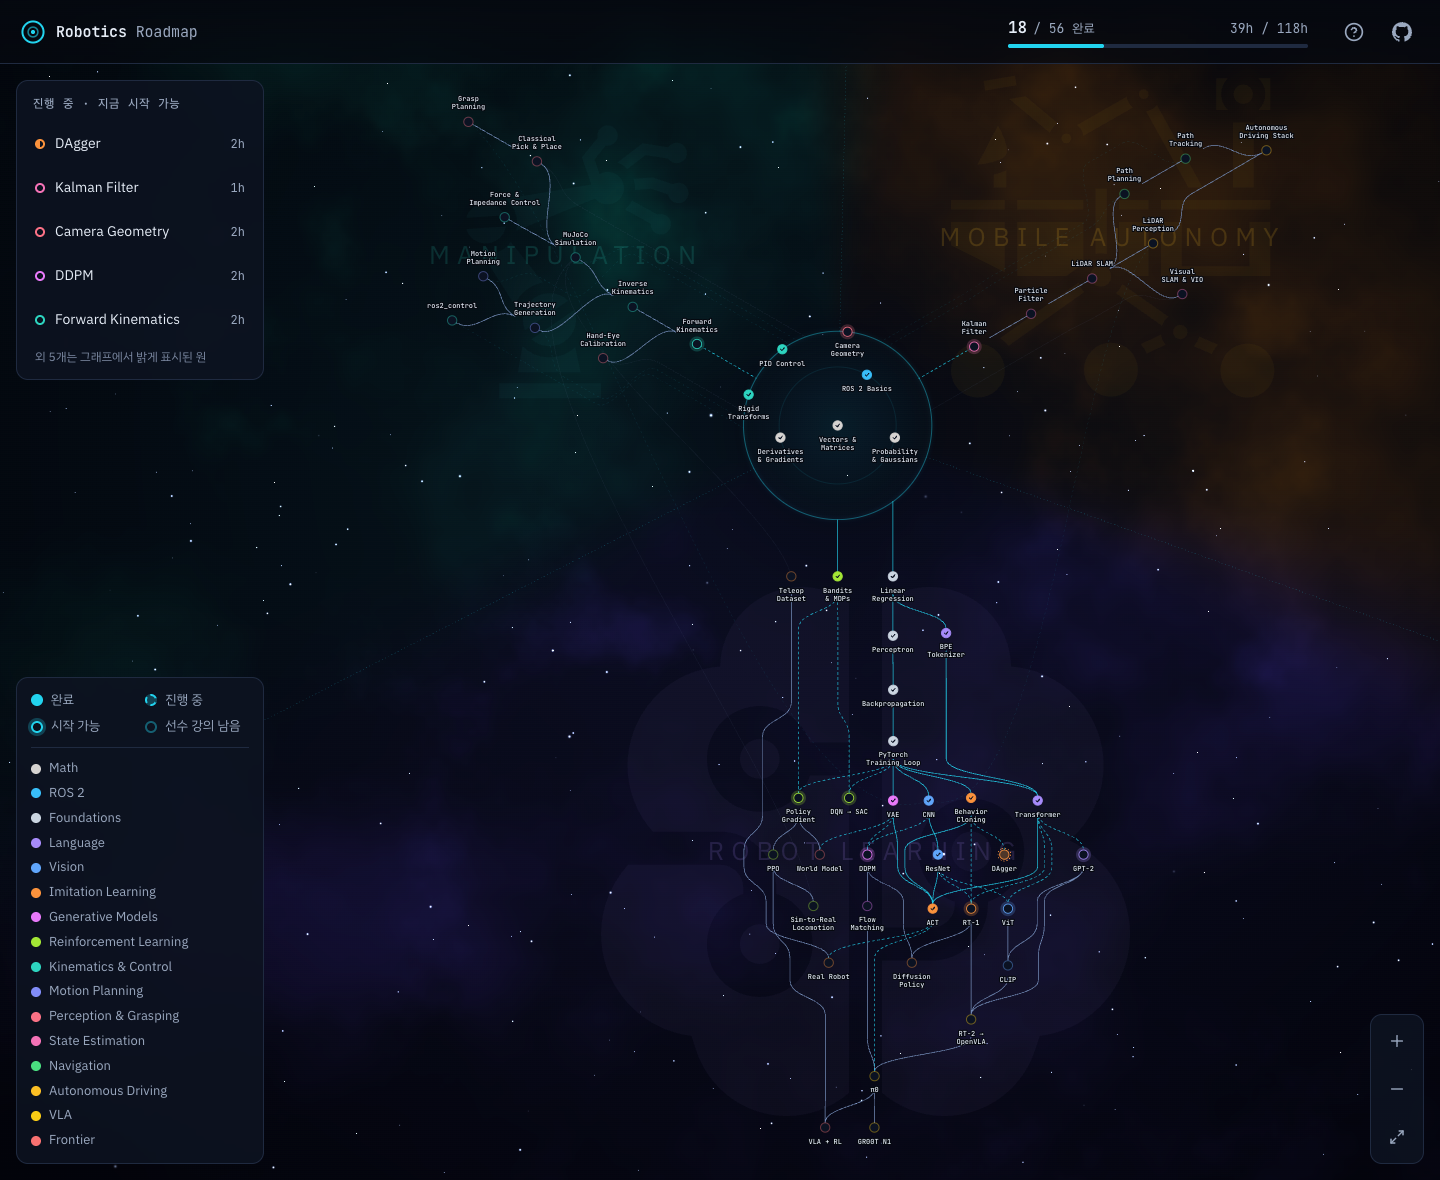
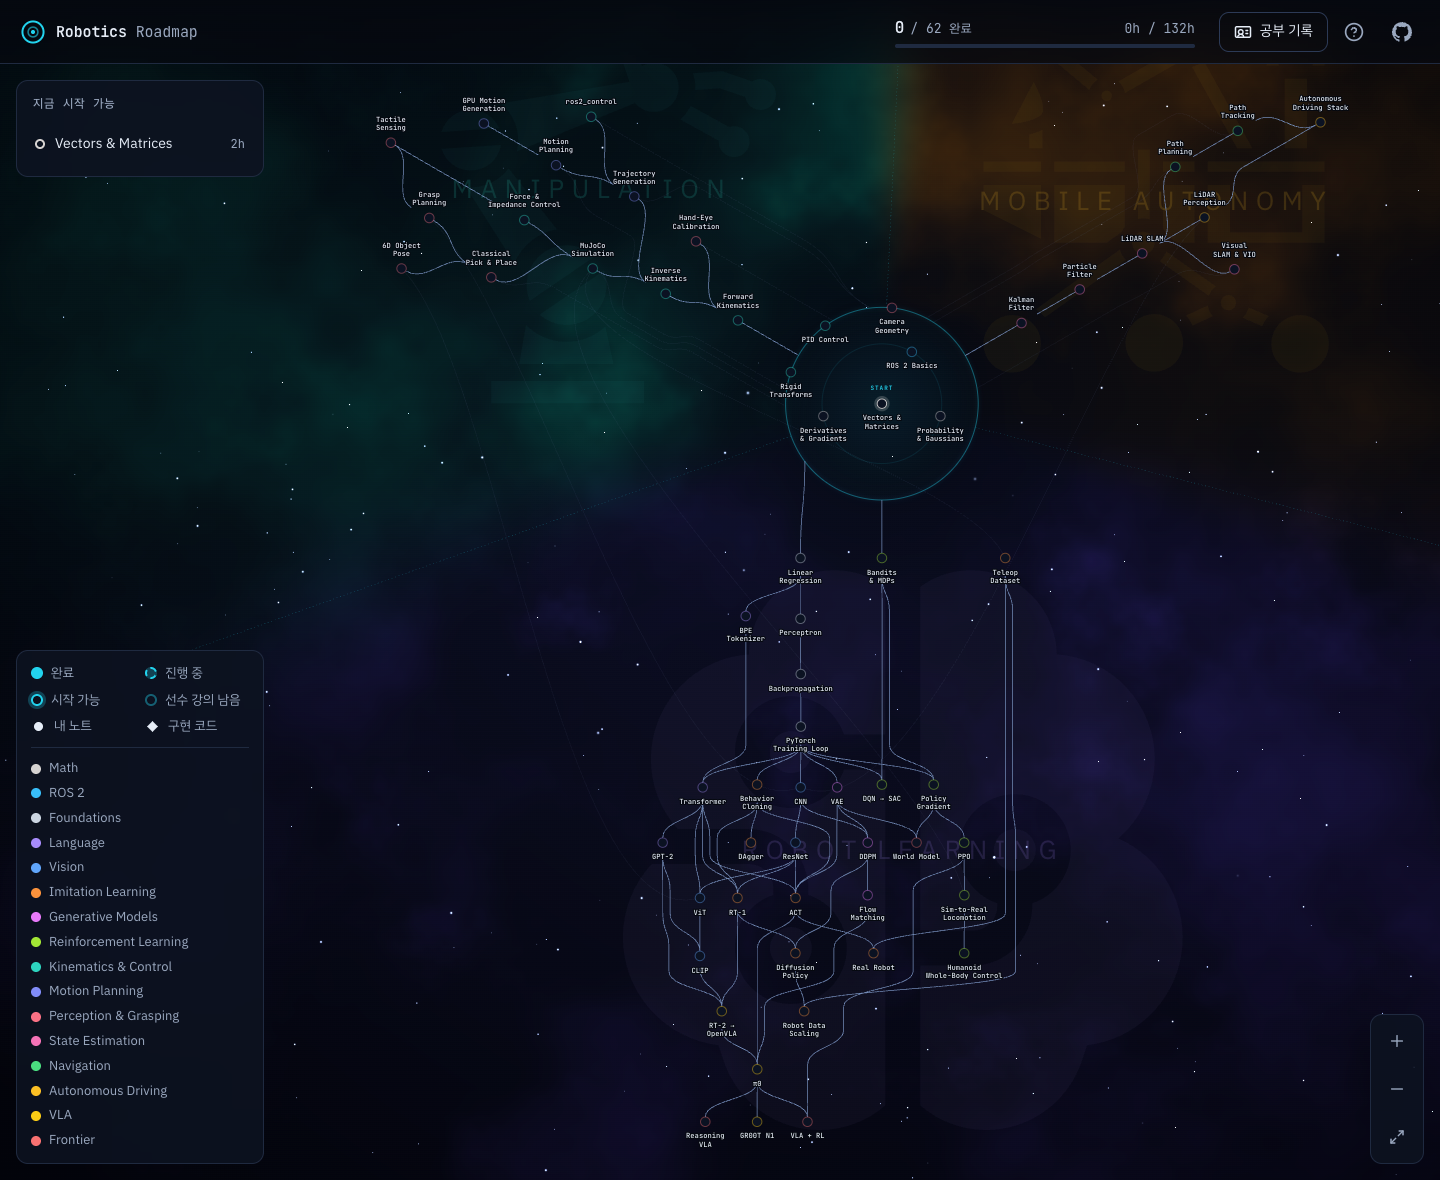
Describe this study record in the README and refresh the map images

diff --git a/site/src/config.ts b/site/src/config.ts
@@ -31,10 +31,10 @@ export const CONFIG = {
     title: 'Robotics Roadmap · gawbi',
     description: 'Robot Learning·Manipulation 을 준비하며 공부한 기록. 강의 지도 위에 퀴즈 통과 기록, 직접 쓴 노트, 직접 구현한 코드를 남깁니다.',
     // site/public/og.png. Link previews are cached by the image's URL, so bump `v` whenever the picture changes
-    image: 'og.png?v=2',
+    image: 'og.png?v=3',
     imageWidth: 1200,
     imageHeight: 630,
-    imageAlt: 'Robotics Roadmap 커리큘럼 지도. 가운데 공통 기초 동심원에서 Robot Learning, Manipulation, Mobile Autonomy 트리가 뻗는다',
+    imageAlt: 'Robotics Roadmap · gawbi. 로보틱스를 직접 공부한 기록, Robot Learning · Manipulation. 퀴즈 통과 기록, 내 말로 쓴 노트, 직접 구현한 코드',
     locale: 'ko_KR',
   },
 

diff --git a/README.md b/README.md
@@ -1,142 +1,134 @@
 <div align="center">
 
-# Robotics Roadmap
+# Robotics Roadmap · gawbi
 
-**로보틱스 개발자가 되기 위한 오픈소스 독학 커리큘럼**
+**Robot Learning · Manipulation 직무를 준비하며 공부한 기록**
 
-[![Lessons](https://img.shields.io/badge/lessons-56-2dd4bf)](#커리큘럼)
-[![Hours](https://img.shields.io/badge/hours-118-818cf8)](#커리큘럼)
+[![Lessons](https://img.shields.io/badge/lessons-62-2dd4bf)](#커리큘럼)
+[![Hours](https://img.shields.io/badge/hours-132-818cf8)](#커리큘럼)
 [![Lessons license](https://img.shields.io/badge/lessons-CC%20BY--NC--SA%204.0-lightgrey)](lessons/LICENSE.md)
 [![Site license](https://img.shields.io/badge/site-MIT-blue)](LICENSE)
-[![Node](https://img.shields.io/badge/node-%E2%89%A520.19-339933?logo=node.js&logoColor=white)](https://nodejs.org/)
-[![GitHub stars](https://img.shields.io/github/stars/woolimi/robotics-roadmap?style=social)](https://github.com/woolimi/robotics-roadmap/stargazers)
 
-[예시 사이트](https://woolimi.github.io/robotics-roadmap/) · [설치와 실행](#설치와-실행) · [커리큘럼](#커리큘럼) · [강의와 퀴즈](#강의와-퀴즈) · [기여](#기여) · [라이선스](#라이선스)
+**[공부 기록 보기](https://gawbi.github.io/robotics-roadmap/#/me)** · [커리큘럼 지도](https://gawbi.github.io/robotics-roadmap/) ·
+[기록 방식](#공부한-것을-남기는-방식) · [원본에 더한 것](#원본에-더한-것) · [실행](#설치와-실행) · [라이선스](#라이선스)
 
-<img src="docs/site-tour.gif" alt="커리큘럼 지도에서 강의 원을 눌러 선수·후속 강의가 강조되고, 오른쪽 창에 강의 본문이 열리는 모습" width="960">
+<img src="docs/map.png" alt="커리큘럼 지도. 가운데 동심원에 공통 기초가 놓이고, 점선으로 나뉜 세 구역으로 Robot Learning·Manipulation·Mobile Autonomy 트리가 뻗습니다" width="960">
 
 </div>
 
 ## 소개
 
-로보틱스 개발자가 되기 위한 독학 커리큘럼입니다. vector·미분·확률과 ROS 2 같은 공통 기초에서 출발해 robot learning, manipulation,
-mobile robot·자율주행 세 직무 방향으로 나아가는 강의 56개를 담았습니다. 리포를 fork 해 지도를 띄우면 강의를 읽고 퀴즈를 풀며 혼자서
-진도를 이어 갈 수 있습니다.
+[woolimi/robotics-roadmap](https://github.com/woolimi/robotics-roadmap) 의 강의 지도를 따라 로보틱스를 공부하면서, 공부한 흔적을 지도
+위에 남기는 리포입니다. 원 하나가 강의 하나이고 선은 먼저 읽어 두면 좋은 강의를 잇습니다. Robot Learning·Manipulation 쪽에는
+최근 연구와 현업 도구를 다루는 강의를 더했습니다.
 
-## 특징
+[공부 기록 페이지](https://gawbi.github.io/robotics-roadmap/#/me)에서 퀴즈를 통과한 강의, 직접 쓴 노트, 직접 구현한 코드, 공부한 날을
+한 번에 볼 수 있습니다.
 
-- **fork 해서 혼자 진행하는 자율형 학습**: 강의를 읽고 면접형 퀴즈를 풀면 결과가 내 fork 의 `progress/` 에 쌓이고, 다시 풀 때는
-  틀린 원리만 다른 문항으로 묻습니다.
-- **기술의 의존 관계가 보이는 지도**: 강의가 선수 관계로 이어져 있어서, π0 를 이해하려면 RT-2·OpenVLA, flow matching, ACT 를 먼저
-  읽어야 한다는 것이 지도에서 바로 보입니다.
-- **논문 기반 강의**: 강의마다 근거 논문을 밝히고 그 방법과 숫자를 따라갑니다. Kalman(1960)부터 π0·GR00T N1 까지 논문·교과서·공식
-  문서 200여 편을 다룹니다.
-- **숫자와 그림으로 설명**: 코드 없이 손으로 따라 할 숫자 예시와 그림으로 설명하고, 긴 유도는 접어 둔 "심화" 블록에 있습니다.
-- **업데이트 알림**: 원본 리포에 새 강의가 올라오면 지도 화면에서 버튼 하나로 내 fork 에 합칩니다.
+## 공부한 것을 남기는 방식
+
+강의 하나를 이렇게 공부하고, 그 결과를 리포에 커밋합니다.
+
+1. **강의를 읽는다**: 그림과 숫자 예시로 원리를 따라가고, 유도는 접힌 "심화" 블록에서 확인합니다
+2. **퀴즈를 푼다**: 강의의 원리마다 한 문항씩 묻는 면접형 퀴즈입니다. 틀린 원리는 다른 문항으로 다시 묻고, 틀린 문항이 남지 않으면
+   통과입니다
+3. **노트를 쓴다**: 강의를 덮고 내 말로 요약, 직접 해 본 계산, 헷갈렸던 점, 면접 질문에 대한 답을 씁니다
+4. **구현한다**: 강의 하나를 코드 하나로 옮기거나, 여러 강의를 잇는 프로젝트를 만들고 결과를 그래프·숫자로 남깁니다
+5. **커밋한다**: push 하면 GitHub Pages 가 다시 배포되어 공개 지도에 바로 반영됩니다
+
+| 기록 | 리포의 위치 | 사이트에서 보이는 곳 |
+| --- | --- | --- |
+| 퀴즈 결과 | `progress/<강의>.json`: 응시 날짜와 문항별 정답 여부 | 지도의 원이 칠해지고, 강의 창에 응시 날짜와 점수 |
+| 노트 | `notes/<강의>.md` | 원 오른쪽 위의 점, 강의 창의 **내 노트** 탭 |
+| 구현 | `labs/<이름>/`: 코드와 결과를 담은 README | 원 왼쪽 위의 마름모, **구현** 탭, 공부 기록 페이지의 프로젝트 카드 |
+| 공부한 날 | 위 세 폴더를 바꾼 커밋 날짜와 퀴즈 응시 날짜 | 공부 기록 페이지의 heatmap |
+
+노트와 구현 탭에는 각 파일의 GitHub 커밋 이력 링크가 있어서 언제 썼는지 확인할 수 있습니다. 형식은
+[docs/templates/](docs/templates/) 의 `note.md`, `lab.md` 를 복사해서 씁니다.
+
+## 원본에 더한 것
+
+**강의 6개**: 원본과 같은 형식(논문 원문으로 확인한 숫자, 그림, 접힌 심화 블록, 면접형 퀴즈)으로 Claude Code 와 함께 썼습니다.
+
+| 강의 | 영역 | 다루는 것 |
+| --- | --- | --- |
+| [Humanoid Whole-Body Control](lessons/humanoid-wbc/README.md) | Reinforcement Learning · 3h | motion capture retargeting, tracking reward, privileged teacher → student, H2O·OmniH2O·ExBody2·GMT·SONIC, ASAP 의 delta action, VLA 아래의 whole-body controller |
+| [Robot Data Scaling](lessons/data-scaling/README.md) | Imitation Learning · 2h | Open X-Embodiment·DROID, 로봇 없이 모으는 UMI, 환경·물체 다양성의 data scaling law, MimicGen·DemoGen 합성 시연, CUPID curation, π0.5 의 data mixture |
+| [Reasoning VLA](lessons/vla-reasoning/README.md) | Frontier · 2h | π0.5 의 high-level 추론, Hi Robot, embodied chain-of-thought, 추론 token 의 비용과 제어 주기, knowledge insulation, Gemini Robotics-ER·1.5 |
+| [GPU Motion Generation](lessons/gpu-motion-generation/README.md) | Motion Planning · 3h | CHOMP·TrajOpt, 구 근사와 ESDF(nvblox), GPU 에서 seed 여러 개를 함께 푸는 cuRobo, 벤치마크 숫자 읽기, MPC, Isaac ROS cuMotion |
+| [6D Object Pose](lessons/object-pose/README.md) | Perception & Grasping · 2h | PnP·RANSAC·ICP, 대칭 물체와 ADD·BOP 지표, PoseCNN·DOPE, render-and-compare(MegaPose), FoundationPose, pose 에서 grasp 까지 |
+| [Tactile Sensing](lessons/tactile-sensing/README.md) | Perception & Grasping · 2h | GelSight 의 photometric stereo 와 marker, 미끄러짐 감지, TACTO·Taxim simulation, visuo-tactile policy·Sparsh, gel 마모와 센서마다 다른 신호 |
+
+**사이트**
+
+- 강의 창의 **강의 · 내 노트 · 구현** 탭, 강의마다의 퀴즈 응시 이력
+- 지도에서 노트(점)와 구현(마름모)이 있는 강의 표시
+- 공부 기록 페이지 `#/me`: 퀴즈 통과 강의 수, 공부한 날 heatmap, 영역별 진행, 구현 프로젝트, 노트 목록
+- `progress/`·`notes/`·`labs/` 가 바뀌어도 GitHub Pages 를 다시 배포
 
 ## 설치와 실행
 
-설치하기 전에 [예시 사이트](https://woolimi.github.io/robotics-roadmap/)에서 지도와 강의를 둘러보고 퀴즈를 풀어 볼 수 있습니다. 예시
-사이트의 퀴즈 결과는 새로고침하면 사라지므로, 진행 기록을 남기려면 아래처럼 내 fork 를 띄워서 씁니다.
-
-[Node.js](https://nodejs.org/) 20.19 이상(또는 22.12 이상)과 git 이 필요합니다. 퀴즈 기록을 내 GitHub 에 남길 수 있도록 fork 해서 씁니다.
-
-1. 이 페이지 오른쪽 위의 **Fork** 를 눌러 내 계정으로 복사합니다
-2. 내 fork 를 받아 지도를 띄웁니다
-
-   ```bash
-   git clone https://github.com/<내 계정>/robotics-roadmap.git
-   cd robotics-roadmap/site
-   npm install
-   npm run dev
-   ```
-
-3. 브라우저에서 http://localhost:5173 을 엽니다
-
-### 퀴즈 기록
-
-퀴즈를 제출하면 지도를 띄운 dev server 가 답안을 채점해 `progress/<강의>.json` 에 저장합니다. 이 파일은 내 컴퓨터에만 있으므로,
-공부를 마칠 때 커밋해서 push 해 두면 다른 컴퓨터에서 clone 해도 진행 상태가 그대로 보입니다.
+[Node.js](https://nodejs.org/) 20.19 이상(또는 22.12 이상)과 git 이 필요합니다.
 
 ```bash
-git add progress
-git commit -m "Record quiz progress"
+git clone https://github.com/gawbi/robotics-roadmap.git
+cd robotics-roadmap/site
+npm install
+npm run dev     # http://localhost:5173
+```
+
+퀴즈는 `npm run dev` 로 띄운 지도에서 풉니다. dev server 가 답안을 채점해 `progress/<강의>.json` 에 저장하고, 공개 사이트에서 푼
+퀴즈는 새로고침하면 사라집니다. 공부를 마치면 기록을 커밋합니다.
+
+```bash
+git add progress notes labs
+git commit -m "Study kalman-filter: quiz, note, 1D filter lab"
 git push
 ```
 
-### 강의 업데이트
+### 원본 강의 업데이트
 
-강의는 계속 늘어나고 고쳐집니다. `npm run dev` 로 지도를 띄우면 dev server 가 원본 리포(woolimi/robotics-roadmap)를 확인해서, 내 fork 에
-없는 변경이 있으면 화면 위쪽에 업데이트할지 묻습니다. **업데이트** 를 누르면 원본의 변경을 내 fork 에 합치고, 퀴즈 기록은 그대로
-남습니다. 합친 결과는 다음에 퀴즈 기록을 push 할 때 함께 올라갑니다.
-
-원본은 `progress/` 를 건드리지 않으므로 기록만 커밋했다면 충돌하지 않습니다. `lessons/` 나 `site/` 를 직접 고쳤다면 원본의 변경과 겹쳐
-자동으로 합치지 못할 수 있는데, 그때는 터미널에서 직접 합칩니다.
-
-```bash
-git fetch upstream
-git merge upstream/main
-```
+`npm run dev` 로 지도를 띄우면 dev server 가 원본 리포(woolimi/robotics-roadmap)를 `upstream` remote 로 확인해서, 이 리포에 없는 강의
+변경이 있으면 화면 위쪽에 업데이트할지 묻습니다. 원본은 `progress/`·`notes/`·`labs/` 를 건드리지 않으므로 기록과 충돌하지 않습니다.
 
 ## 커리큘럼
-
-![커리큘럼 지도. 가운데 동심원에 공통 기초가 놓이고, 점선으로 나뉜 세 구역으로 Robot Learning·Manipulation·Mobile Autonomy 트리가 뻗습니다](docs/map.png)
 
 | 영역 | 다루는 것 |
 | --- | --- |
 | 공통 기초 | vector·행렬, 미분·gradient, 확률·Gaussian, ROS 2(node·topic·tf2), 좌표 변환, PID 제어, 카메라 geometry |
-| Robot Learning | linear regression 에서 PyTorch 까지의 신경망 기초, CNN·ViT·CLIP, Transformer·GPT-2, VAE·diffusion·flow matching, 강화학습(DQN·SAC·PPO·sim-to-real), imitation learning(behavior cloning·DAgger·ACT·Diffusion Policy), VLA(RT-2·OpenVLA·π0·GR00T N1), world model |
-| Manipulation | forward·inverse kinematics, MuJoCo simulation, force·impedance control, ros2_control, trajectory generation, motion planning(RRT·OMPL·MoveIt 2), hand-eye calibration, pick-and-place, grasp planning |
+| Robot Learning | linear regression 에서 PyTorch 까지의 신경망 기초, CNN·ViT·CLIP, Transformer·GPT-2, VAE·diffusion·flow matching, 강화학습(DQN·SAC·PPO·sim-to-real), humanoid whole-body control, imitation learning(behavior cloning·DAgger·ACT·Diffusion Policy), 로봇 데이터의 규모, VLA(RT-2·OpenVLA·π0·GR00T N1), 추론하는 VLA, world model |
+| Manipulation | forward·inverse kinematics, MuJoCo simulation, force·impedance control, ros2_control, trajectory generation, motion planning(RRT·OMPL·MoveIt 2), GPU motion generation(cuRobo), hand-eye calibration, 6D object pose, pick-and-place, grasp planning, tactile sensing |
 | Mobile Autonomy(이동 로봇·자율주행) | Kalman filter, particle filter, LiDAR·visual SLAM, path planning(A*·Nav2), path tracking(pure pursuit·MPC), LiDAR perception, 자율주행 stack(Autoware) |
 
-원 하나가 강의 하나이고, 선은 먼저 읽어 두면 좋은 강의를 잇습니다. 가운데의 Vectors & Matrices 에서 시작해 공통 기초를 읽고,
-지원하려는 직무의 영역을 따라 바깥으로 나아가면 됩니다. 선수 관계는 권장 순서일 뿐이라 어떤 강의든 바로 열 수 있습니다.
-
-## 강의와 퀴즈
-
-![Kalman filter 강의. 오른쪽 창에 숫자로 계산하는 표와 그림이 보이고, 왼쪽 지도에서는 이 강의와 선수·후속 강의가 강조됩니다](docs/lesson.png)
-
-강의는 학습 목표, 본문, 정리 순서로 이루어집니다. 본문은 직접 따라 계산하는 표, 그림, 수식, 절마다 답을 접어 둔 확인 문제로 짜여
-있고, 긴 유도는 "심화" 블록에 접어 두어 처음 읽을 때는 건너뛸 수 있습니다.
-
-![퀴즈 화면. 개념 질문에 4지선다로 답하는 문항이 보입니다](docs/quiz.png)
-
-강의 끝의 퀴즈는 강의의 원리 하나마다 한 문항을 묻습니다. 제출하면 틀린 문항의 해설이 보이고, 해설마다 그 내용을 다룬 절로 가는
-버튼이 있습니다. 절을 읽은 뒤 강의 아래쪽의 "퀴즈 해설로 돌아가기" 로 해설에 돌아와 다음 틀린 문항을 이어 볼 수 있고, 지난 응시의
-해설도 회차별로 다시 볼 수 있습니다. 다시 풀 때는 틀린 원리만 같은 원리의 다른 문항으로 묻습니다. 틀린 문항이 남지 않으면 그 강의는
-완료로 칠해지고 이어지는 강의가 밝아집니다.
+가운데의 Vectors & Matrices 에서 시작해 공통 기초를 읽고, 직무 영역을 따라 바깥으로 나아갑니다. 선수 관계는 권장 순서일 뿐이라 어떤
+강의든 바로 열 수 있습니다.
 
 ## 프로젝트 구조
 
 ```text
 robotics-roadmap/
-├── lessons/              # 강의 56개
+├── lessons/              # 강의 (원본 56개 + 추가 6개)
 │   ├── branches.yaml     # 지도의 동심원·영역·branch 설정
-│   └── <강의>/
-│       ├── README.md     # 강의 본문 (frontmatter 에 선수 강의·시간·논문)
-│       ├── quiz.yaml     # 면접형 퀴즈
-│       └── figures/      # SVG 그림
-├── progress/             # 내 퀴즈 기록 (fork 에서만 커밋)
-├── site/                 # 지도와 강의를 보여 주는 Vite + React 앱
-├── docs/                 # README 이미지, 강의 문장 패턴(korean-prose.md)
+│   └── <강의>/           # README.md(본문), quiz.yaml(퀴즈), figures/(SVG 그림)
+├── progress/             # 퀴즈 기록 (dev server 가 씀)
+├── notes/                # 강의마다 내 말로 쓴 노트
+├── labs/                 # 직접 구현한 코드와 결과
+├── docs/templates/       # 노트·구현 README 템플릿
+├── site/                 # 지도·강의·공부 기록 페이지를 보여 주는 Vite + React 앱
 ├── CONTRIBUTING.md       # 강의·퀴즈·지도 규칙
-└── CLAUDE.md             # Claude Code 로 강의를 쓸 때의 작업 순서와 규칙
+└── CLAUDE.md             # Claude Code 로 강의를 쓸 때의 규칙과, 기록을 대신 쓰지 않는다는 원칙
 ```
 
-## 기여
-
-틀린 내용, 어색한 설명, 깨진 링크는 [issue](https://github.com/woolimi/robotics-roadmap/issues) 로 알려 주시면 고치겠습니다.
-사실 정정은 근거가 되는 논문·공식 문서·소스 코드 링크를 함께 남겨 주시면 가장 빠르게 반영됩니다.
-
-강의를 고치거나 새로 쓰는 pull request 도 환영합니다. 강의 형식, 문장 규칙, 퀴즈 규칙, 지도 사이트의 구조는
-[CONTRIBUTING.md](CONTRIBUTING.md) 에 있고, 문장을 다듬을 때 고치는 패턴은 [docs/korean-prose.md](docs/korean-prose.md) 에
-있습니다. Claude Code 로 강의를 쓰면 리포의 [CLAUDE.md](CLAUDE.md) 를 자동으로 읽어 같은 작업 순서와 사실 확인 규칙을 따릅니다. PR 을 올리기 전에 `site/` 에서 `npm test` 로 형식 검사를 통과하는지 확인해 주세요.
+강의를 고치거나 더할 때는 [CONTRIBUTING.md](CONTRIBUTING.md) 의 형식을 따르고, `site/` 에서 `npm test` 로 형식과 지도 레이아웃
+검사를 통과시킵니다.
 
 ## 라이선스
 
-- 강의(`lessons/`)와 문서 이미지(`docs/`): [CC BY-NC-SA 4.0](lessons/LICENSE.md). 출처를 밝히면 비영리 목적으로 자유롭게 쓰고 고칠 수
-  있고, 고친 자료도 같은 조건으로 공유해야 합니다
+- 커리큘럼 원본: [woolimi/robotics-roadmap](https://github.com/woolimi/robotics-roadmap) (Woolim Park)
+- 강의(`lessons/`)와 문서 이미지(`docs/`): [CC BY-NC-SA 4.0](lessons/LICENSE.md). 원본 강의와 이 리포에서 더하거나 고친 강의 모두 같은
+  조건으로 공유합니다
 - 지도 사이트(`site/`): [MIT](LICENSE)
 - 지도의 트리 그림: 로봇팔("mechanical-arm", Lorc)과 주행 로봇("mars-curiosity", Delapouite)은 [game-icons.net](https://game-icons.net) 의
   그림으로 [CC BY 3.0](https://creativecommons.org/licenses/by/3.0/), 전자 두뇌("brain-circuit")는
   [Fluent UI System Icons](https://github.com/microsoft/fluentui-system-icons) 의 그림으로 MIT 입니다
+- `notes/`·`labs/`·`progress/` 의 공부 기록: gawbi
